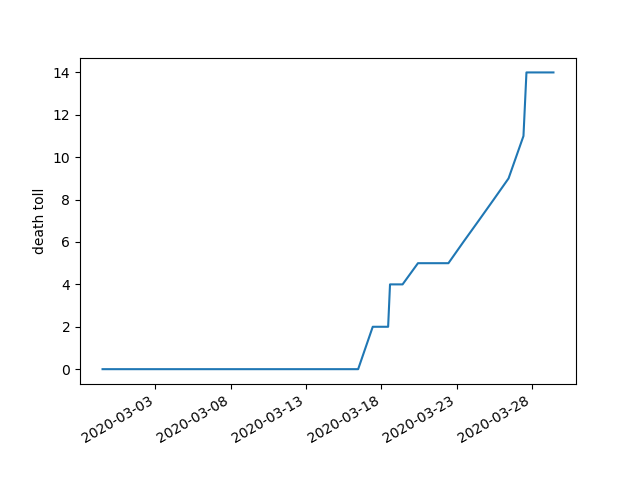
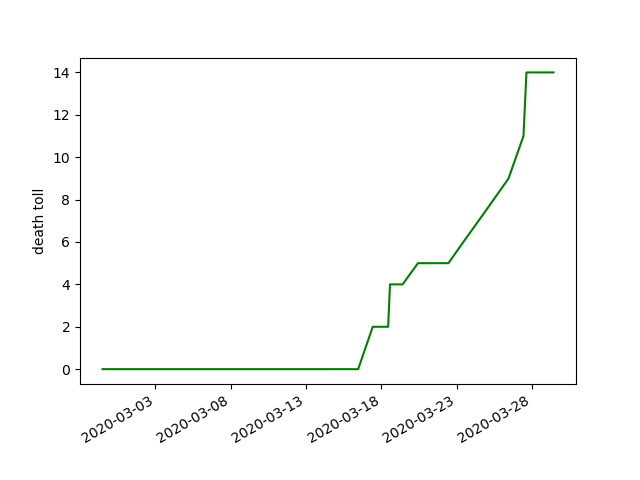
clean up covid19 generation script

diff --git a/content/blog/Covid19/main.py b/content/blog/Covid19/main.py
@@ -70,7 +70,7 @@ plt.clf()
 
 plt.gca().xaxis.set_major_formatter(mdates.DateFormatter('%Y-%m-%d'))
 plt.gca().xaxis.set_major_locator(mdates.DayLocator(interval=5))
-plt.plot(x, deaths)
+plt.plot(x, deaths, "-g")
 plt.gcf().autofmt_xdate()
 plt.ylabel('death toll')
 plt.savefig('deaths.png')
@@ -106,12 +106,9 @@ plt.savefig('year.png')
 plotPic = plotPic + "and the year of birth of the deceased. Their average (median) year of birth was " + str(m.floor(averageYear)) + ". Which corresponds to an average age of " + str(2020 - m.floor(averageYear)) + ".\n" 
 plotPic = plotPic + "![Year of Birth](year.png)" 
 
-googleurl = "I keep the data in a google [spread sheet](https://docs.google.com/spreadsheets/d/1Th4GSgmTpX4GtcebVDzIfRuCOu2cSOc2WJCORHcCw-Y)"
+description = "## How this site is generated \n This site is automatically generated when data is added to the [spread sheet](https://docs.google.com/spreadsheets/d/1Th4GSgmTpX4GtcebVDzIfRuCOu2cSOc2WJCORHcCw-Y). You can find the corresponding python script inside my [github repository](https://github.com/lucasgerads/blog/blob/master/content/blog/Covid19/main.py)."
 
-
-description = "## How this site is generated \n This site is automatically generated when data is added to the spread sheet. You can find the corresponding python script inside my [github repository](https://github.com/lucasgerads/blog/blob/master/content/blog/Covid19/main.py)."
-
-text = header + "\n" + introduction + "\n\n" + plotPic + "\n\n" + description +  "\n\n" + googleurl  +  "\n\n\n ##Source\n" + source
+text = header + "\n" + introduction + "\n\n" + plotPic + "\n\n" + description +  "\n\n\n ##Source\n" + source
 print(text)
 
 file = open("index.md", "w") 

diff --git a/content/blog/Covid19/index.md b/content/blog/Covid19/index.md
@@ -1,6 +1,6 @@
 --- 
  title: Covid19 in Aachen (Stadt und Städteregion) 
- date: "2020-03-29T13:13:01.000Z" 
+ date: "2020-03-29T13:18:28.000Z" 
 --- 
 The city of Aachen publishes (more or less) daily updates about Covid19. It's in the form of a daily press release, so I decided to collect this data to make it more usable for further processing ([google spread sheet](https://docs.google.com/spreadsheets/d/1Th4GSgmTpX4GtcebVDzIfRuCOu2cSOc2WJCORHcCw-Y))
 
@@ -10,9 +10,7 @@ Below is development of cases in the Städteregion Aachen and the city of Aachen
 ![Year of Birth](year.png)
 
 ## How this site is generated 
- This site is automatically generated when data is added to the spread sheet. You can find the corresponding python script inside my [github repository](https://github.com/lucasgerads/blog/blob/master/content/blog/Covid19/main.py).
-
-I keep the data in a google [spread sheet](https://docs.google.com/spreadsheets/d/1Th4GSgmTpX4GtcebVDzIfRuCOu2cSOc2WJCORHcCw-Y)
+ This site is automatically generated when data is added to the [spread sheet](https://docs.google.com/spreadsheets/d/1Th4GSgmTpX4GtcebVDzIfRuCOu2cSOc2WJCORHcCw-Y). You can find the corresponding python script inside my [github repository](https://github.com/lucasgerads/blog/blob/master/content/blog/Covid19/main.py).
 
 
  ##Source
